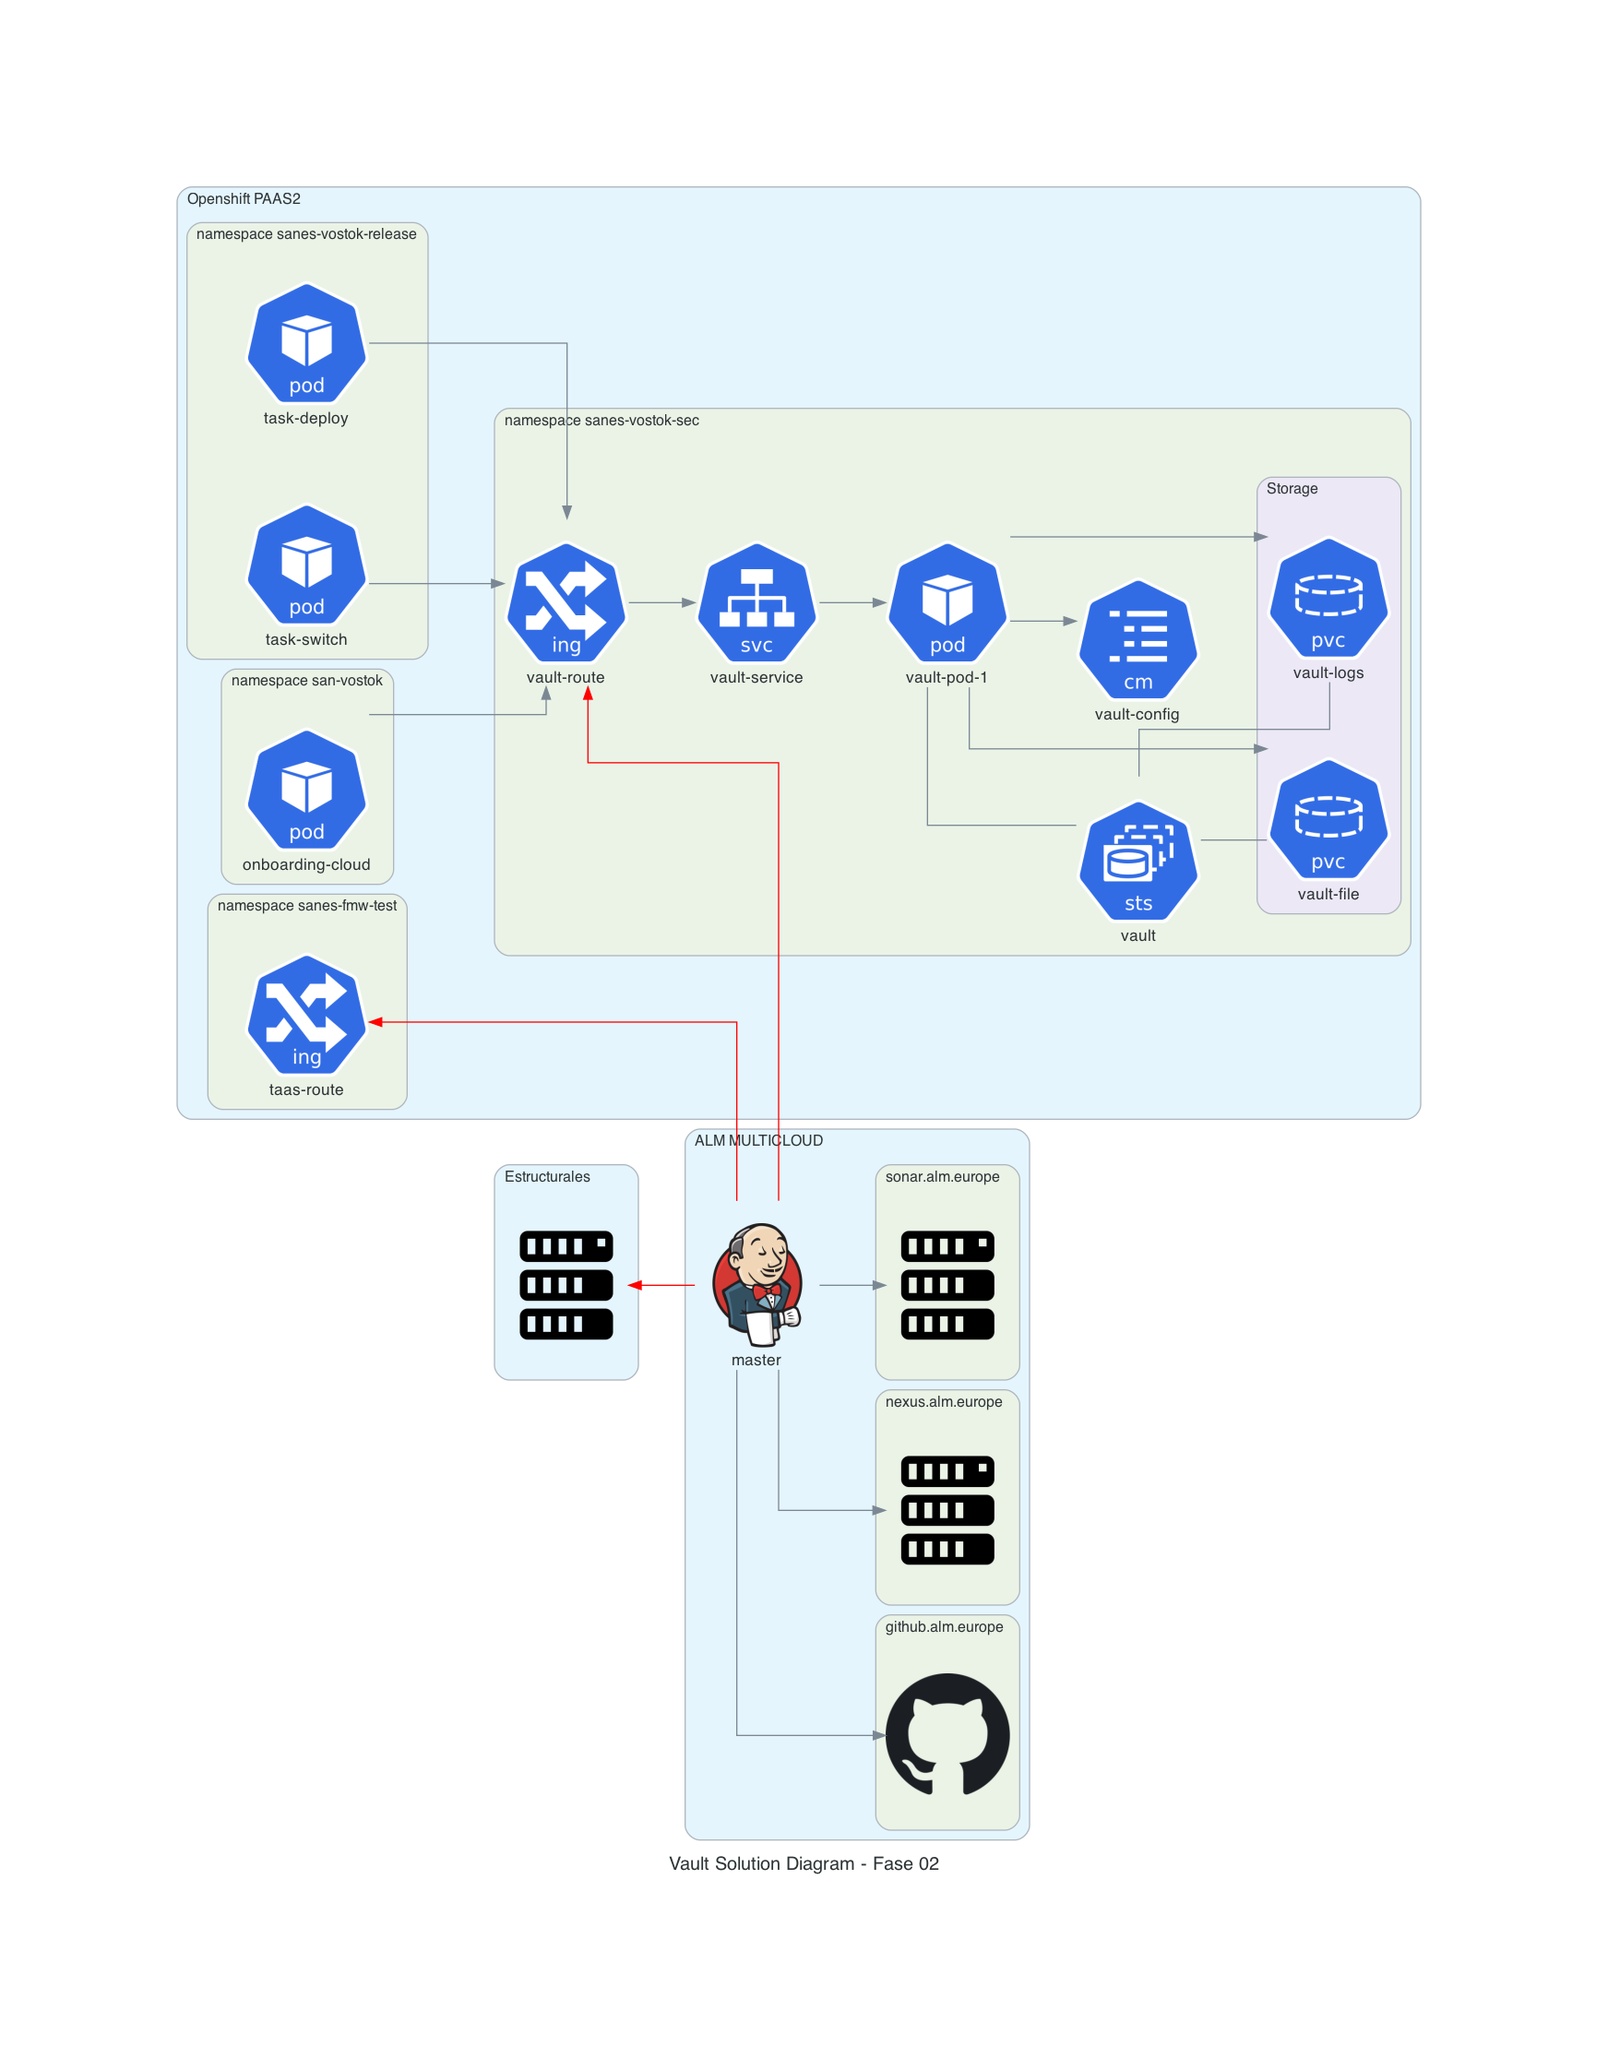
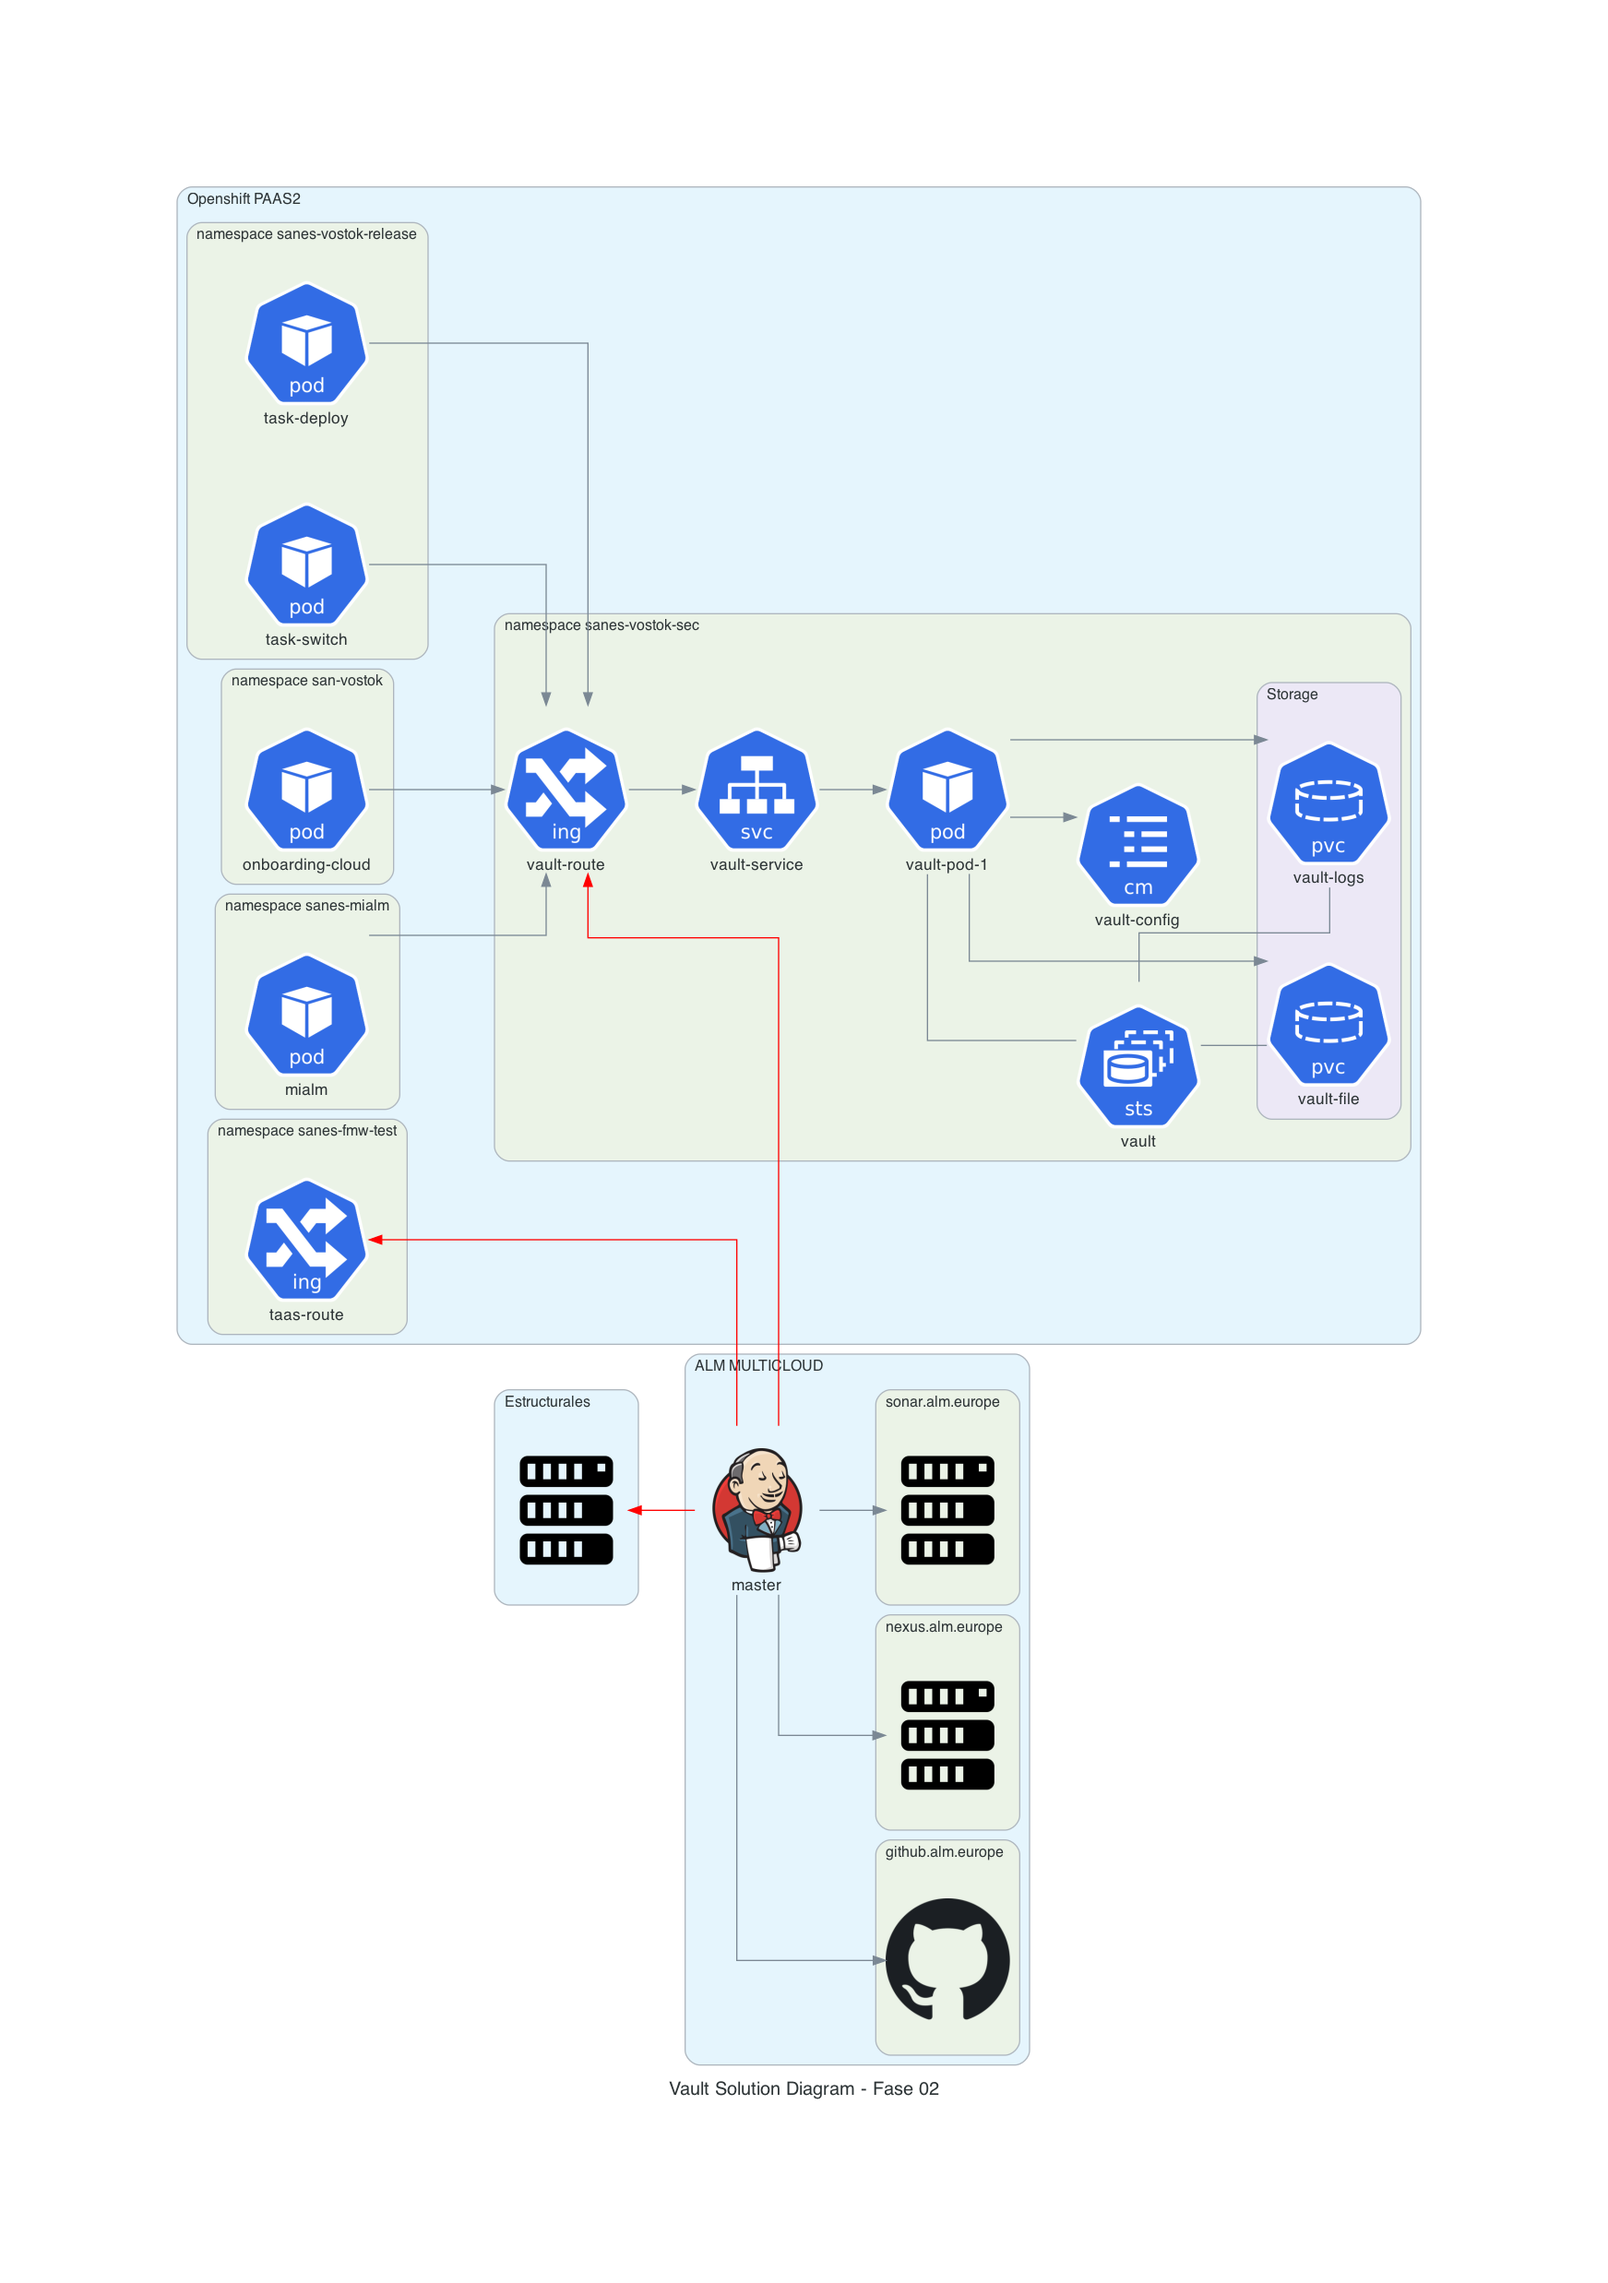
Phase 02

diff --git a/SantanderES/Vault/solution/Vault-Phase02.py b/SantanderES/Vault/solution/Vault-Phase02.py
@@ -28,6 +28,9 @@ with Diagram("Vault Solution Diagram - Fase 02", show=False, direction="LR"):
 		with Cluster("namespace san-vostok"):
 			podOnboardingCloud = Pod("onboarding-cloud")
 
+		with Cluster("namespace sanes-mialm"):
+			podMialm = Pod("mialm")
+
 	pod - statefulset - storages
 	pod >> configmap
 	flow = route >> service >> pod >> storages
@@ -54,3 +57,4 @@ with Diagram("Vault Solution Diagram - Fase 02", show=False, direction="LR"):
 	podTaskRelease >> route
 	podTaskSwitch >> route
 	podOnboardingCloud >> route
+	podMialm >> route
